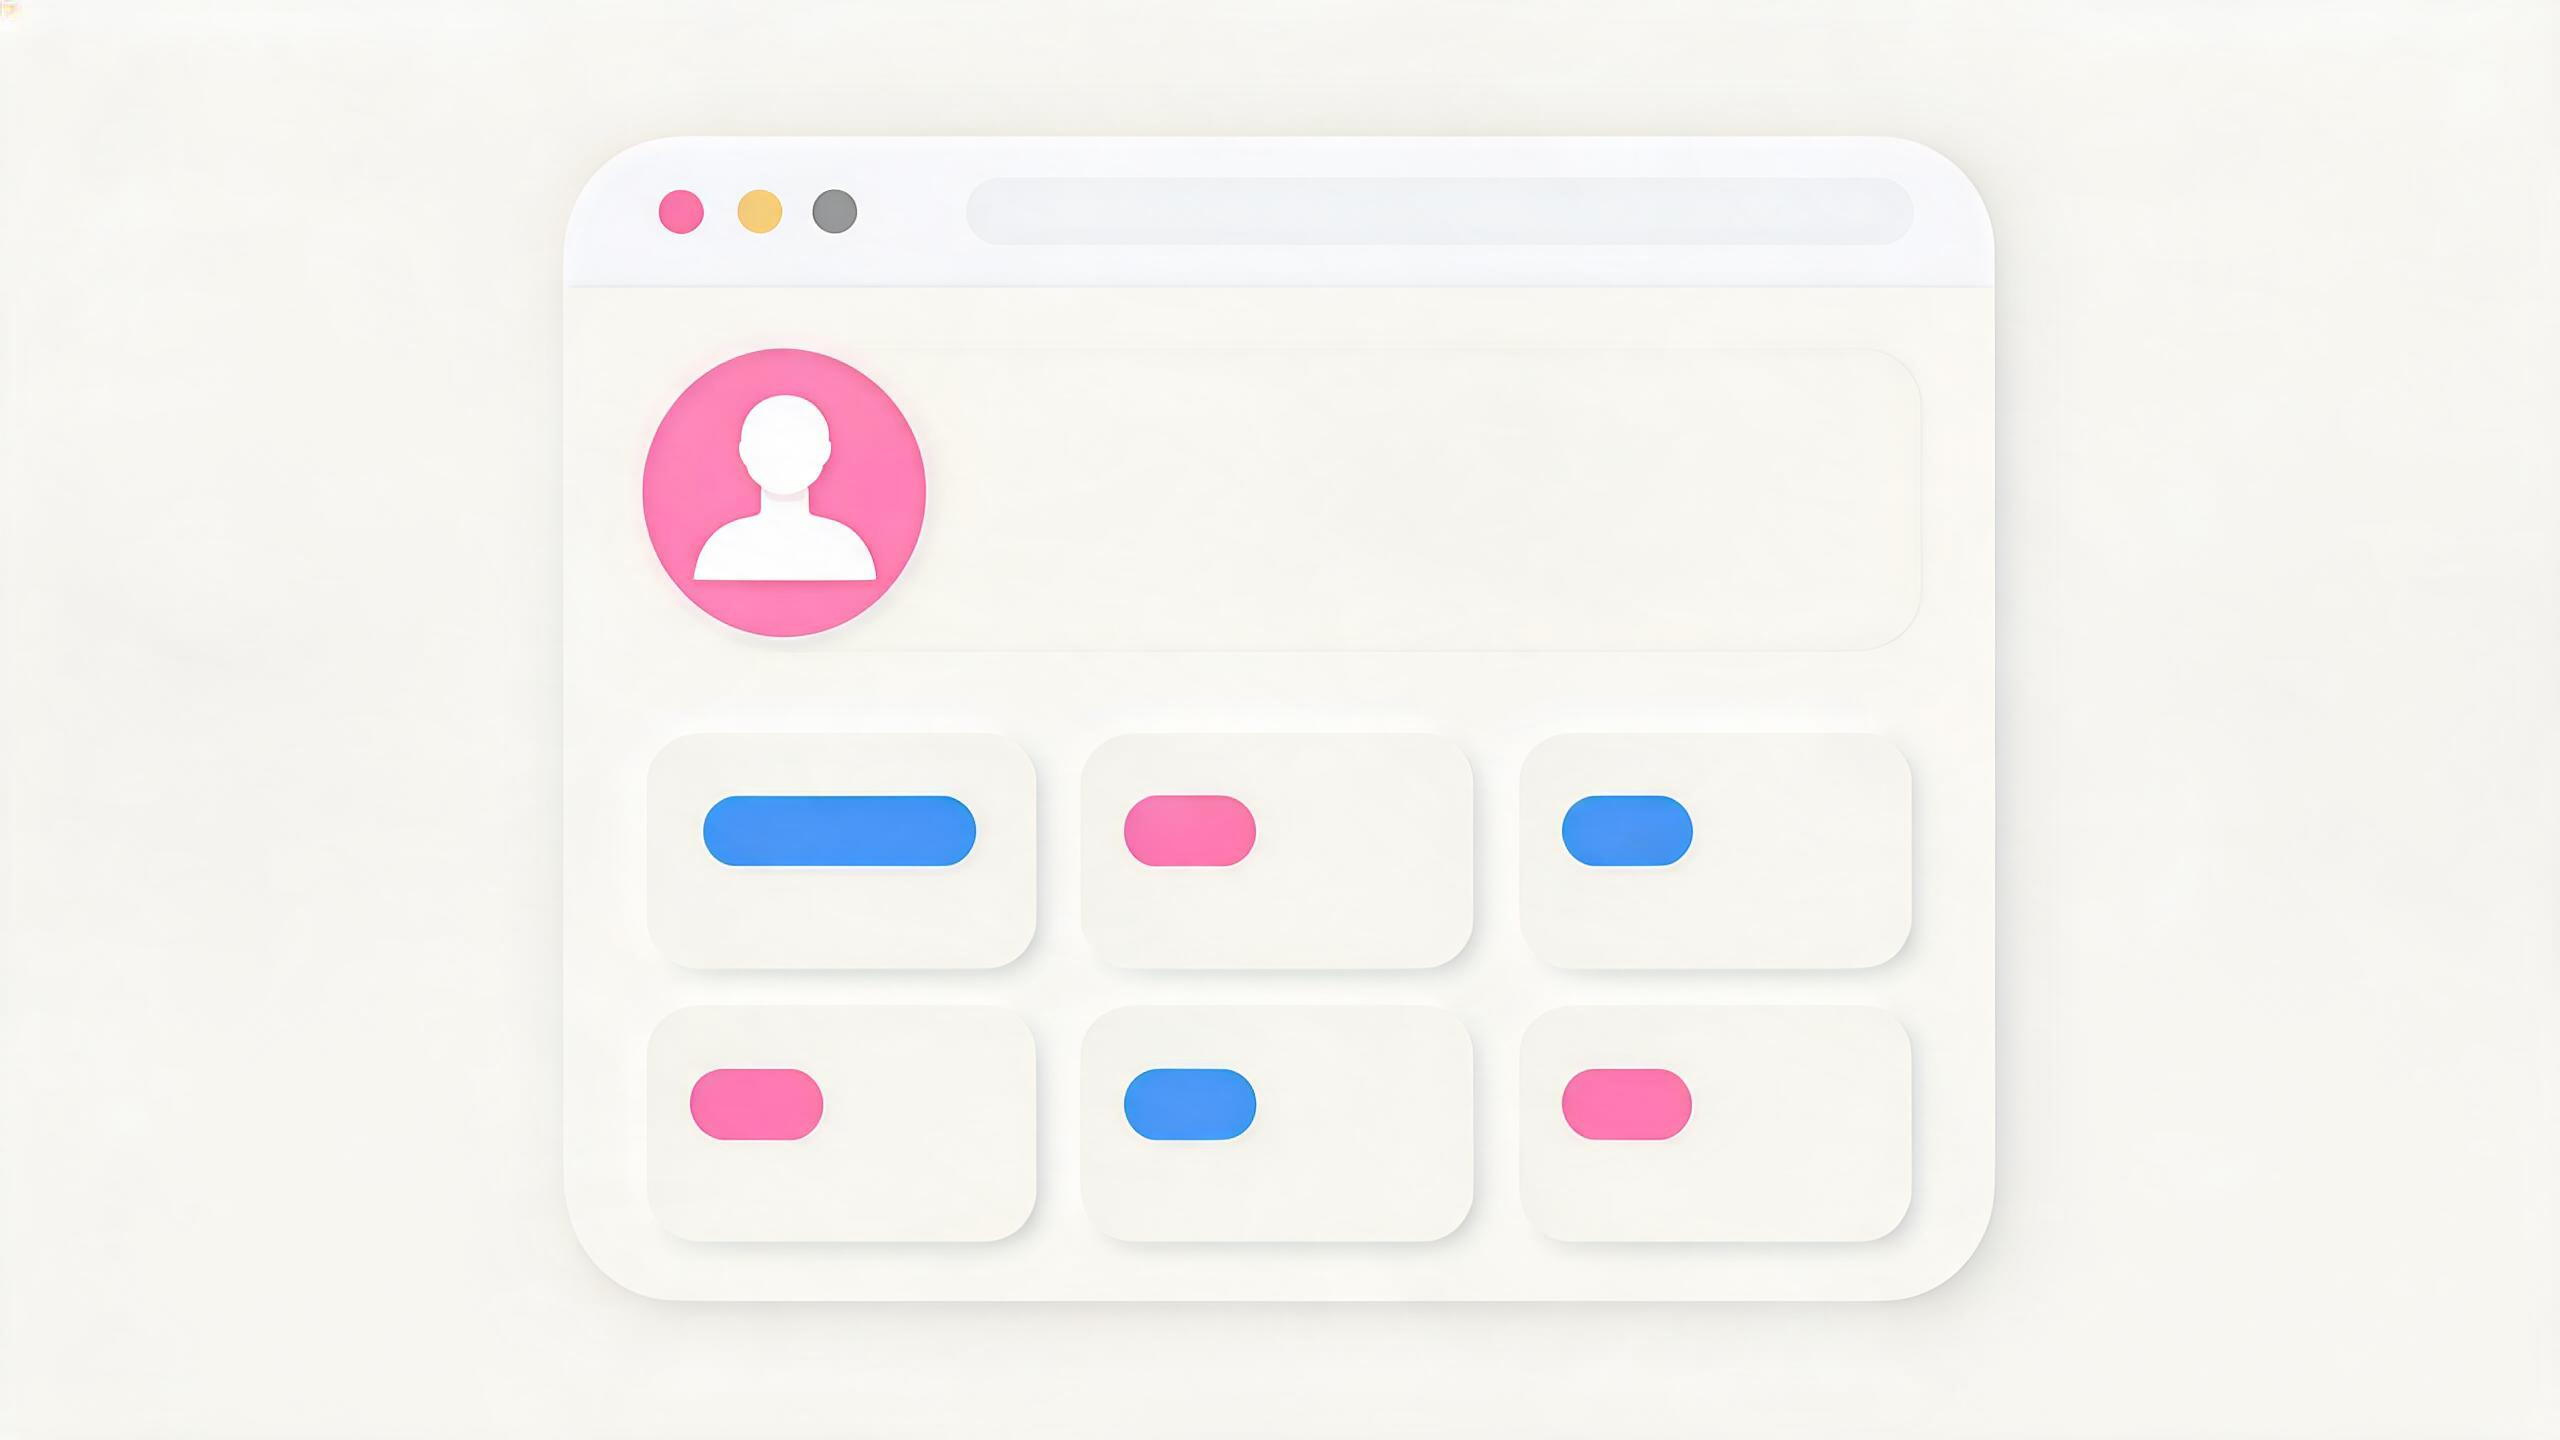
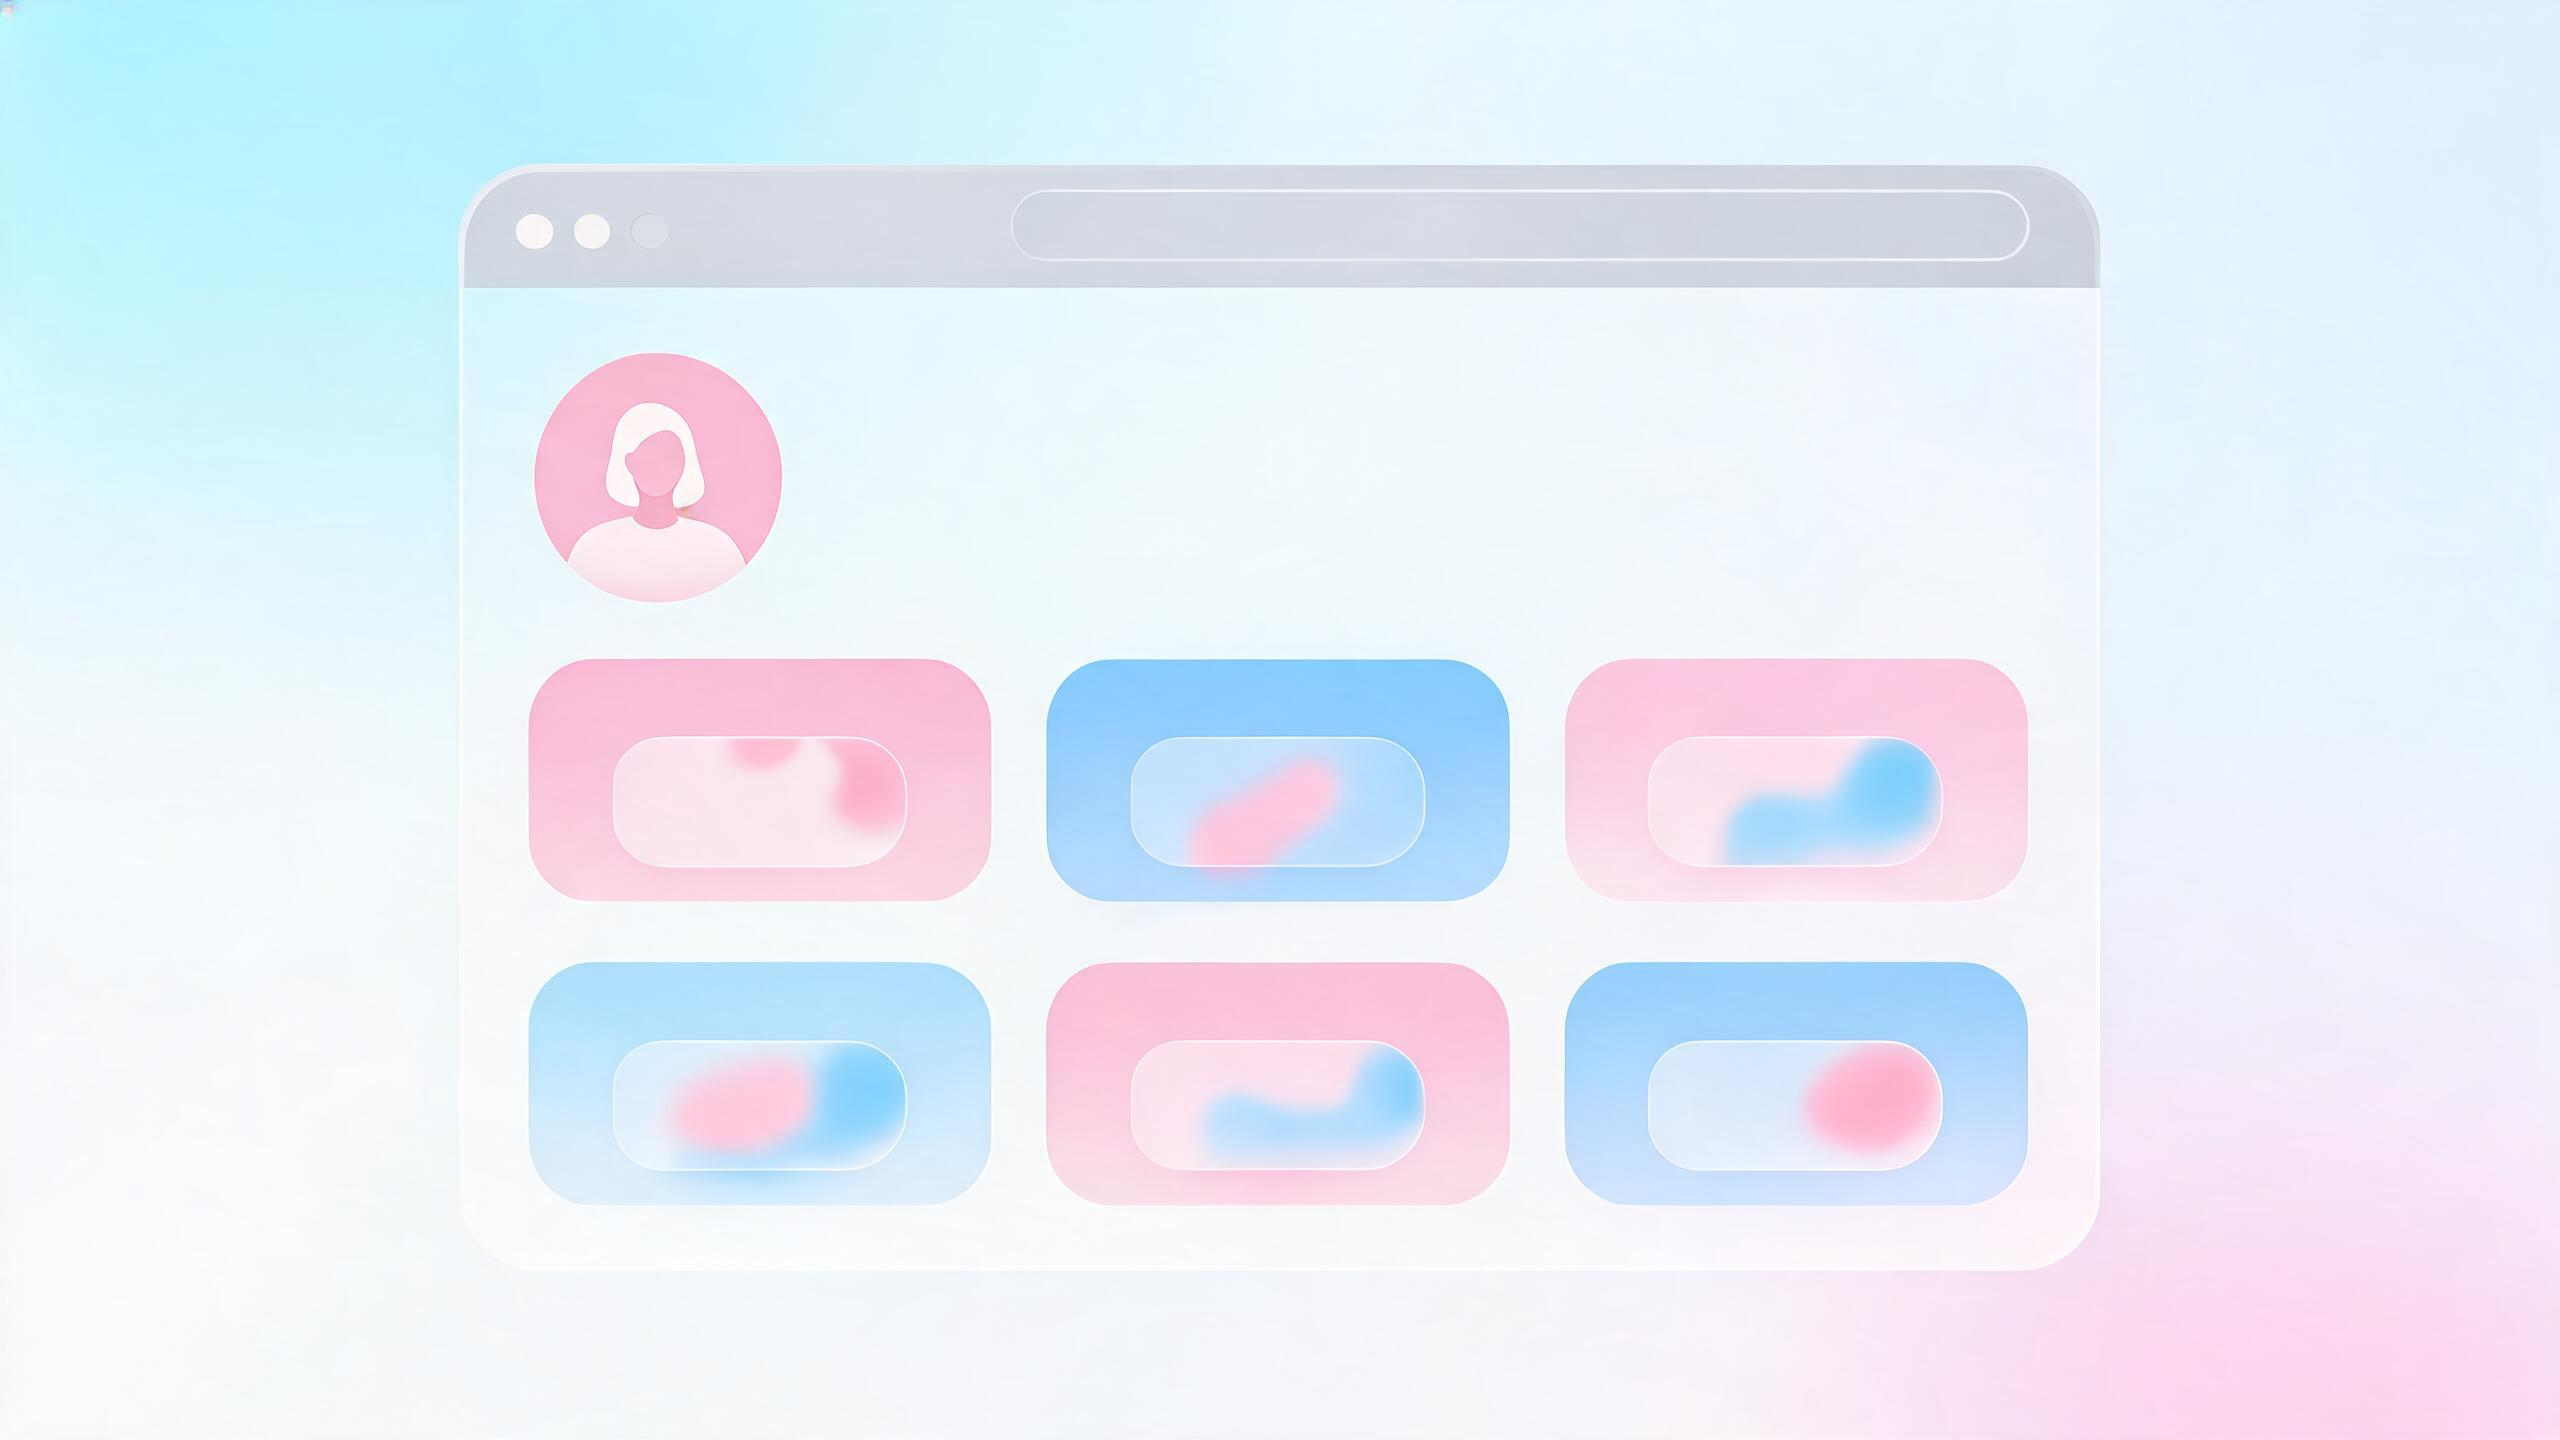
全站换橹穆应援色（蓝 aee4ff / 粉 ffccd5）：调整全站配色变量与封面图

diff --git a/src/index.css b/src/index.css
@@ -5,9 +5,12 @@
   font-synthesis: none;
   text-rendering: optimizeLegibility;
   -webkit-font-smoothing: antialiased;
-  --primary: #4f46e5;
-  --primary-dark: #3730a3;
-  --primary-soft: #eef2ff;
+  /* 橹穆应援色：蓝 #aee4ff / 粉 #ffccd5（派生加深用于可读性） */
+  --primary: #2f9de5;
+  --primary-dark: #1d7fc4;
+  --primary-soft: #eaf7ff;
+  --pink: #f2698c;
+  --grad: linear-gradient(135deg, #56b4ee, #f97fa0);
   --border: #e4e8f0;
   --muted: #6b7488;
   --surface: #ffffff;
@@ -35,7 +38,7 @@ button { cursor: pointer; }
   white-space: nowrap;
   transition: transform .15s ease, box-shadow .15s ease, background .15s ease;
 }
-.btn-primary { color: white; background: linear-gradient(135deg, #6366f1, #4f46e5); box-shadow: 0 10px 22px rgba(79, 70, 229, .22); }
+.btn-primary { color: white; background: linear-gradient(135deg, #4fb1ee, #f77fa0); box-shadow: 0 10px 22px rgba(47, 157, 229, .25); }
 .btn-primary:hover { transform: translateY(-1px); background: var(--primary-dark); }
 .btn-secondary { color: #27324a; background: white; border-color: var(--border); }
 .btn-secondary:hover { border-color: #c8d0e0; background: #f8fafc; }
@@ -64,8 +67,8 @@ button { cursor: pointer; }
   width: 42px; height: 42px; border-radius: 14px;
   display: grid; place-items: center;
   color: white; font-weight: 900; font-size: 22px;
-  background: linear-gradient(135deg, #818cf8, #4f46e5);
-  box-shadow: 0 12px 25px rgba(79, 70, 229, .35);
+  background: linear-gradient(135deg, #4fb1ee, #f78ba6);
+  box-shadow: 0 12px 25px rgba(47, 157, 229, .35);
 }
 .brand-mark.large { width: 58px; height: 58px; border-radius: 18px; font-size: 28px; }
 .nav-list { display: grid; gap: 6px; }
@@ -75,8 +78,8 @@ button { cursor: pointer; }
   color: #aebbd4; font-weight: 650;
 }
 .nav-item:hover { background: rgba(255,255,255,.06); color: white; }
-.nav-item.active { background: rgba(99,102,241,.18); color: white; }
-.nav-icon { width: 22px; display: inline-grid; place-items: center; color: #a5b4fc; }
+.nav-item.active { background: rgba(174,228,255,.16); color: white; }
+.nav-icon { width: 22px; display: inline-grid; place-items: center; color: #9cd0f5; }
 .sidebar-user { margin-top: auto; display: flex; align-items: center; gap: 10px; padding: 12px; border-radius: 14px; background: rgba(255,255,255,.06); }
 .sidebar-user-meta { min-width: 0; flex: 1; }
 .sidebar-user-meta strong, .sidebar-user-meta span { display: block; max-width: 130px; overflow: hidden; text-overflow: ellipsis; white-space: nowrap; }
@@ -84,7 +87,7 @@ button { cursor: pointer; }
 .sidebar-user-meta span { color: #94a3b8; font-size: 11px; }
 .signout { border: 0; background: transparent; color: #94a3b8; font-size: 18px; }
 .signout:hover { color: white; }
-.avatar { width: 38px; height: 38px; border-radius: 50%; display: grid; place-items: center; background: #4f46e5; color: white; font-weight: 800; }
+.avatar { width: 38px; height: 38px; border-radius: 50%; display: grid; place-items: center; background: linear-gradient(135deg, #4fb1ee, #f78ba6); color: white; font-weight: 800; }
 .avatar.small { width: 30px; height: 30px; font-size: 12px; }
 
 .main-content { flex: 1; padding: 34px; max-width: 1480px; width: 100%; margin: 0 auto; }
@@ -105,7 +108,7 @@ button { cursor: pointer; }
 .stat-card { padding: 18px; }
 .stat-card span { color: var(--muted); font-size: 13px; }
 .stat-number { display: block; margin-top: 8px; font-size: 30px; line-height: 1; letter-spacing: -.04em; color: #111827; }
-.stat-blue { color: #2563eb; } .stat-green { color: #16a34a; } .stat-purple { color: #7c3aed; } .stat-amber { color: #d97706; } .stat-red { color: #dc2626; }
+.stat-blue { color: #2f9de5; } .stat-green { color: #16a34a; } .stat-purple { color: #e05580; } .stat-amber { color: #d97706; } .stat-red { color: #dc2626; }
 .dashboard-grid { display: grid; grid-template-columns: 1.25fr 1fr; gap: 18px; margin-bottom: 18px; }
 .activity-card { margin-bottom: 20px; }
 .section-title { display: flex; justify-content: space-between; align-items: center; gap: 12px; margin-bottom: 16px; }
@@ -118,11 +121,11 @@ button { cursor: pointer; }
 .badge-blue { background: #dbeafe; color: #1d4ed8; }
 .badge-amber { background: #fef3c7; color: #b45309; }
 .badge-red { background: #ffe4e6; color: #be123c; }
-.badge-purple { background: #ede9fe; color: #6d28d9; }
+.badge-purple { background: #ffe4ec; color: #d94f79; }
 
 .list-stack { display: grid; gap: 10px; }
 .list-row { display: flex; justify-content: space-between; gap: 12px; padding: 13px; border: 1px solid var(--border); border-radius: 14px; background: #fff; transition: border-color .15s, transform .15s; }
-.list-row:hover { border-color: #c7d2fe; transform: translateY(-1px); }
+.list-row:hover { border-color: #bfe4fb; transform: translateY(-1px); }
 .list-row strong, .list-row span { display: block; }
 .list-row strong { margin-bottom: 4px; }
 .list-row > div span { color: var(--muted); font-size: 13px; }
@@ -140,7 +143,7 @@ button { cursor: pointer; }
 .timeline { display: grid; gap: 0; }
 .timeline-item { position: relative; display: grid; grid-template-columns: 24px 1fr; gap: 8px; padding-bottom: 18px; }
 .timeline-item:not(:last-child)::before { content: ''; position: absolute; left: 7px; top: 16px; bottom: 0; width: 2px; background: #e7ebf3; }
-.timeline-dot { width: 14px; height: 14px; margin-top: 4px; border-radius: 50%; background: #6366f1; box-shadow: 0 0 0 4px #eef2ff; z-index: 1; }
+.timeline-dot { width: 14px; height: 14px; margin-top: 4px; border-radius: 50%; background: #4fb1ee; box-shadow: 0 0 0 4px #eaf7ff; z-index: 1; }
 .timeline-item strong, .timeline-item span, .timeline-item time { display: block; }
 .timeline-item strong { font-size: 13px; }
 .timeline-item span { color: var(--muted); font-size: 13px; }
@@ -164,7 +167,7 @@ button { cursor: pointer; }
 .member-cell { display: flex; align-items: center; gap: 10px; }
 
 .input { width: 100%; border: 1px solid #d7deea; border-radius: 11px; padding: 10px 12px; background: #fff; color: #172033; outline: none; transition: border-color .15s, box-shadow .15s; }
-.input:focus { border-color: #818cf8; box-shadow: 0 0 0 4px rgba(99,102,241,.12); }
+.input:focus { border-color: #7cc0f0; box-shadow: 0 0 0 4px rgba(47,157,229,.14); }
 textarea.input { resize: vertical; min-height: 86px; }
 .field { display: grid; gap: 7px; color: #334155; font-size: 13px; font-weight: 700; }
 .field small { color: var(--muted); font-weight: 500; }
@@ -179,7 +182,7 @@ textarea.input { resize: vertical; min-height: 86px; }
 .modal-header h2 { margin: 0; font-size: 22px; }
 .modal-close { width: 36px; height: 36px; border: 0; border-radius: 10px; background: #f1f5f9; color: #475569; font-size: 24px; }
 
-.auth-page { min-height: 100vh; display: grid; place-items: center; padding: 32px 18px; background: radial-gradient(circle at top left, #c7d2fe 0, transparent 35%), #f8fafc; }
+.auth-page { min-height: 100vh; display: grid; place-items: center; padding: 32px 18px; background: radial-gradient(circle at top left, #aee4ff 0, transparent 35%), radial-gradient(circle at bottom right, #ffccd5 0, transparent 32%), #f8fafc; }
 .auth-panel { width: min(470px, 100%); background: rgba(255,255,255,.92); border: 1px solid var(--border); border-radius: 26px; box-shadow: var(--shadow); padding: 30px; }
 .auth-panel.narrow { width: min(520px, 100%); }
 .auth-brand { text-align: center; display: grid; justify-items: center; gap: 10px; margin-bottom: 22px; }
@@ -222,7 +225,7 @@ textarea.input { resize: vertical; min-height: 86px; }
 .tag-editor { display: flex; flex-wrap: wrap; gap: 9px; }
 .tag-pill { border: 1px solid var(--border); background: #fff; border-radius: 999px; padding: 7px 10px; display: inline-flex; align-items: center; gap: 6px; color: #475569; font-weight: 700; }
 .tag-pill i { width: 8px; height: 8px; border-radius: 50%; }
-.tag-pill.selected { border-color: #818cf8; background: #eef2ff; color: #3730a3; }
+.tag-pill.selected { border-color: #7cc0f0; background: #eaf7ff; color: #1d6fa8; }
 .tag-create { flex-basis: 100%; display: grid; grid-template-columns: 1fr auto; gap: 8px; margin-top: 6px; }
 .upload-button { display: inline-flex; align-items: center; justify-content: center; border: 1px solid var(--border); background: white; border-radius: 10px; padding: 7px 10px; color: var(--primary); font-weight: 750; font-size: 13px; }
 .document-row button:first-child { flex: 1; }
@@ -244,7 +247,7 @@ textarea.input { resize: vertical; min-height: 86px; }
 
 .profile-grid { display: grid; grid-template-columns: repeat(2, minmax(0, 1fr)); gap: 18px; }
 .fullscreen-loading, .setup-screen { min-height: 100vh; display: grid; place-items: center; align-content: center; gap: 14px; text-align: center; padding: 20px; color: #475569; }
-.loader { width: 38px; height: 38px; border-radius: 50%; border: 4px solid #e0e7ff; border-top-color: #4f46e5; animation: spin 1s linear infinite; }
+.loader { width: 38px; height: 38px; border-radius: 50%; border: 4px solid #d8edfc; border-top-color: #2f9de5; animation: spin 1s linear infinite; }
 @keyframes spin { to { transform: rotate(360deg); } }
 
 @media (max-width: 1180px) {

diff --git a/src/pages/HomePage.css b/src/pages/HomePage.css
@@ -3,13 +3,6 @@
   max-width: 1080px;
   margin: 0 auto;
   padding: 0 20px 0;
-
-  /* 蓝粉主题（仅作用于公开主页，不影响 CRM 后台） */
-  --primary: #2563eb;
-  --primary-dark: #1d4ed8;
-  --primary-soft: #eff6ff;
-  --pink: #ec4899;
-  --grad: linear-gradient(135deg, #3b82f6, #ec4899);
 }
 
 .home-nav {
@@ -57,8 +50,8 @@
 .home-hero {
   padding: 76px 6px 64px;
   background:
-    radial-gradient(circle at 10% 0%, rgba(147, 197, 253, 0.5) 0, transparent 42%),
-    radial-gradient(circle at 90% 14%, rgba(249, 168, 212, 0.45) 0, transparent 45%);
+    radial-gradient(circle at 10% 0%, rgba(174, 228, 255, 0.6) 0, transparent 42%),
+    radial-gradient(circle at 90% 14%, rgba(255, 204, 213, 0.55) 0, transparent 45%);
   border-radius: 0 0 26px 26px;
 }
 
@@ -130,8 +123,8 @@
   transition: transform .15s ease, border-color .15s ease;
 }
 
-.home-like:hover { border-color: #93c5fd; transform: translateY(-1px); }
-.home-like.liked { border-color: #f9a8d4; color: #db2777; }
+.home-like:hover { border-color: #9cd0f5; transform: translateY(-1px); }
+.home-like.liked { border-color: #ffb9c9; color: #e04d74; }
 .home-like-heart { font-style: normal; font-size: 16px; }
 
 .home-section { padding: 56px 0 6px; }
@@ -203,7 +196,7 @@
 
 .home-gallery-card:hover {
   transform: translateY(-3px);
-  box-shadow: 0 14px 34px rgba(37, 99, 235, 0.16);
+  box-shadow: 0 14px 34px rgba(47, 157, 229, 0.16);
 }
 
 .home-cover {
@@ -304,10 +297,10 @@
 .home-tl-head h3 { margin: 0 0 3px; font-size: 16px; color: #111827; }
 .home-tl-head > div { flex: 1; }
 .home-tl-head .home-tl-link { flex: none; align-self: center; }
-.home-tl-link:hover { background: #fbcfe8; }
+.home-tl-link:hover { background: #ffd6de; }
 
-/* 蓝粉主题：紫色徽章改粉色 */
-.home-page .badge-purple { background: #fce7f3; color: #db2777; }
+/* 应援色：徽章粉色 */
+.home-page .badge-purple { background: #ffe4ec; color: #d94f79; }
 
 .home-tl-uploaded {
   color: var(--pink);
@@ -457,7 +450,7 @@
   padding-top: 2px;
 }
 
-.home-work-result p { margin: 0; font-size: 14px; line-height: 1.7; color: #1e40af; font-weight: 600; }
+.home-work-result p { margin: 0; font-size: 14px; line-height: 1.7; color: #1d6fa8; font-weight: 600; }
 
 /* ---------- 联系 ---------- */
 .home-contact-card { display: grid; gap: 0; padding: 8px 20px; }
